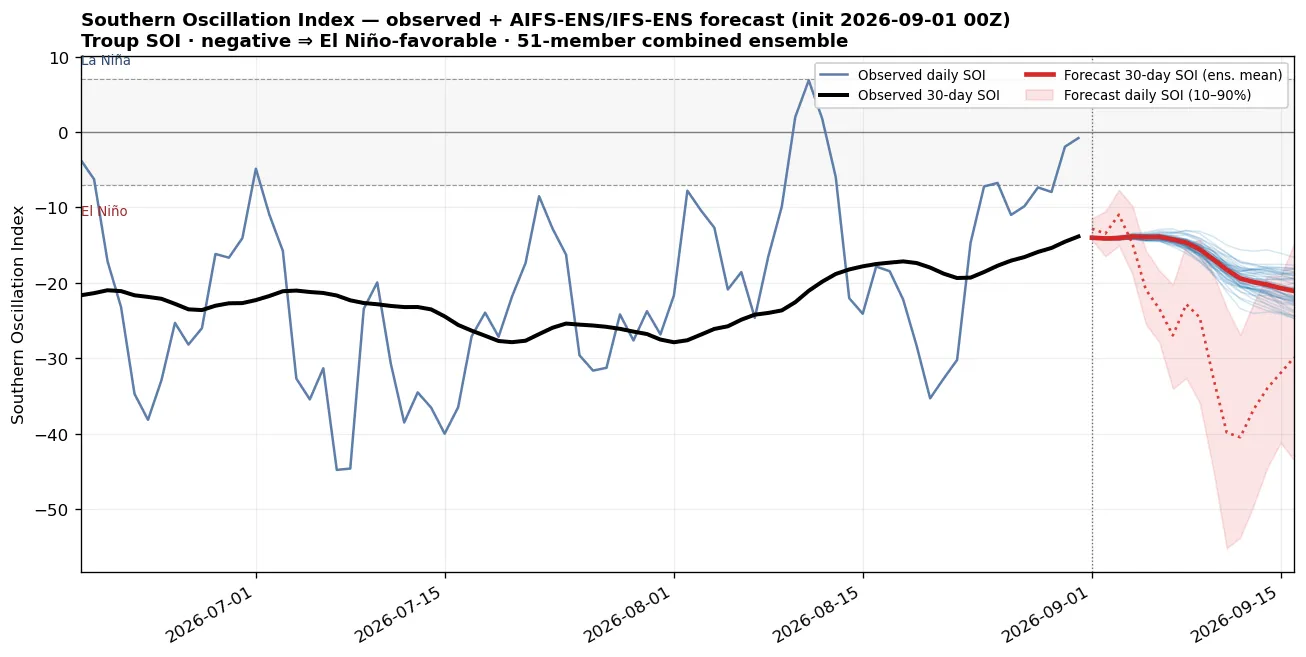
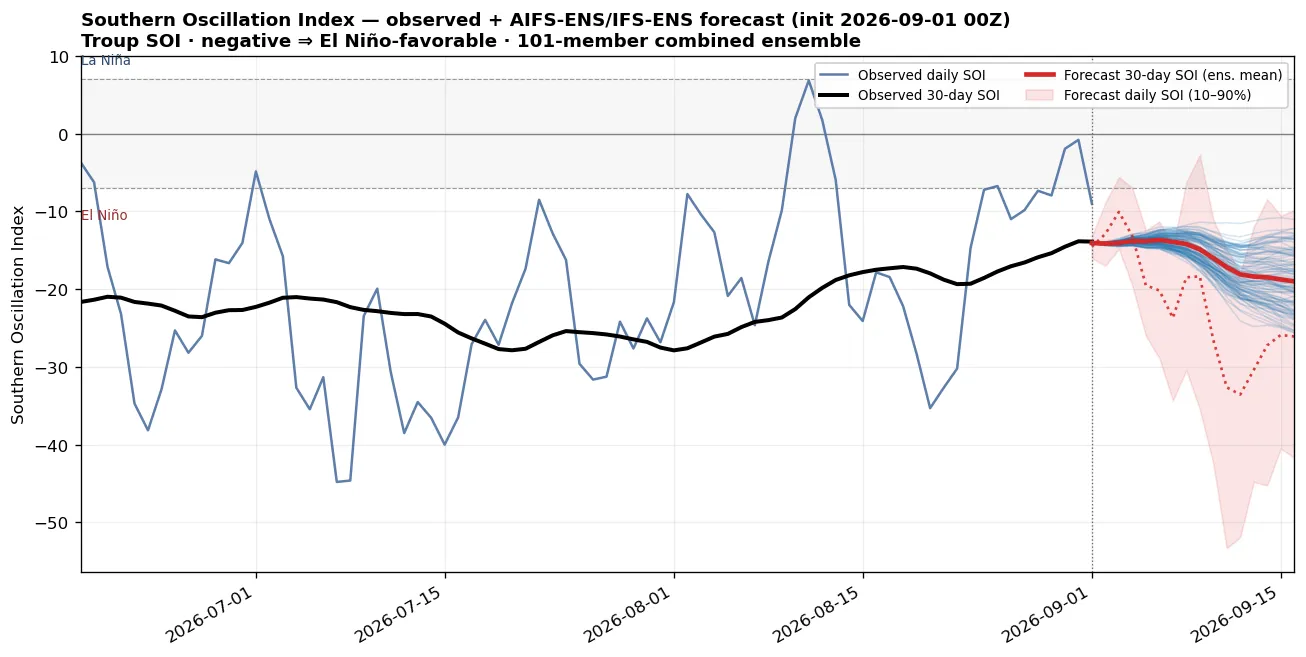
data update: 20260901_00z (a)

diff --git a/enso-atmosphere.html b/enso-atmosphere.html
@@ -667,7 +667,7 @@
         <h2>Atmospheric Angular Momentum</h2>
         <p>Relative AAM is the angular momentum carried by the winds, the atmosphere's total westerly momentum, &int;&nbsp;u&middot;cos&sup2;&phi; over the whole globe. It is dominated by the upper-tropospheric subtropical jets and the deep tropics (largest moment arm), shown here for the globe and each hemisphere from the AIFS-ENS winds on 14 pressure levels (10&ndash;1000&nbsp;hPa &mdash; the full column, validated against the 37-level ERA5 integral and GFZ's ESMGFZ wind-term series to ~1%). The top panel is this year's observed AAM (black) and the 15-day forecast (red) on the climatological annual cycle; the hemispheres are strongly out of phase (each peaks in its own winter). The bottom panel is the anomaly (departure from the 1991&ndash;2020 normal), which removes the seasonal cycle. El&nbsp;Ni&ntilde;o strengthens the subtropical jets and weakens the trades, so the atmosphere holds more westerly momentum; conservation then requires the solid Earth to slow, so AAM ties directly to the measured length of day. The <span style="color:#2e7d32"><b>green trace</b></span> is GFZ's independent ESMGFZ wind-term series (computed from ECMWF's operational analyses for the Earth-rotation community) &mdash; a continuous external check on this pipeline.</p>
       </div>
-      <div class="img-wrap"><img src="assets/sst/aam.webp?v=202609010700" alt="Global and hemispheric atmospheric angular momentum: observed + AIFS-ENS forecast, absolute and anomaly" loading="eager" fetchpriority="high"></div>
+      <div class="img-wrap"><img src="assets/sst/aam.webp?v=202609010847" alt="Global and hemispheric atmospheric angular momentum: observed + AIFS-ENS forecast, absolute and anomaly" loading="eager" fetchpriority="high"></div>
       <div class="chart-card-footer"><span class="chart-sources">Forecast: ECMWF AIFS-ENS (open data, CC BY 4.0) &middot; climatology &amp; this-year observed: ERA5 (Copernicus C3S / ECMWF) &middot; updated daily</span></div>
       </div>
 
@@ -675,7 +675,7 @@
       <div class="chart-card-header">
         <h2>AAM Forecast Trend (run-to-run)</h2>
       </div>
-      <div class="img-wrap"><img src="assets/sst/aam_trend.webp?v=202609010700" alt="Run-to-run trend of AIFS-ENS ensemble-mean AAM anomaly forecasts, global and hemispheric" loading="lazy"></div>
+      <div class="img-wrap"><img src="assets/sst/aam_trend.webp?v=202609010847" alt="Run-to-run trend of AIFS-ENS ensemble-mean AAM anomaly forecasts, global and hemispheric" loading="lazy"></div>
       <div class="chart-card-footer"><span class="chart-sources">ECMWF AIFS-ENS (open data, CC BY 4.0) &middot; anomaly vs ERA5 1991&ndash;2020 (Copernicus C3S) &middot; archived each cycle</span></div>
       </div>
 
@@ -684,7 +684,7 @@
         <h2>AAM Phase: Where the Momentum Is, and Where It&rsquo;s Going</h2>
         <p><b>Top</b>: relative AAM integrated in 1.5&deg; latitude bands &mdash; ~3 months observed (ERA5) plus the 15-day AIFS-ENS mean forecast &mdash; so poleward-propagating westerly anomalies and building subtropical momentum show as slanted warm streaks. <b>Bottom</b>: each hemisphere's trajectory through (AAM anomaly, tendency) phase space, the hemispheric analog of the Weickmann&ndash;Berry global wind oscillation orbit: grey trail = last 75 days, red = the forecast. The headline sentence is generated automatically from the forecast quadrant and the latitude band driving the change &mdash; e.g. <i>"NH: rising above-normal AAM &mdash; subtropical westerlies increasing."</i></p>
       </div>
-      <div class="img-wrap"><img src="assets/sst/aam_phase.webp?v=202609010700" alt="Hemispheric AAM phase diagnostics: latitude-time anomaly heatmap and NH/SH phase-space orbits with forecast" loading="lazy"></div>
+      <div class="img-wrap"><img src="assets/sst/aam_phase.webp?v=202609010847" alt="Hemispheric AAM phase diagnostics: latitude-time anomaly heatmap and NH/SH phase-space orbits with forecast" loading="lazy"></div>
       <div class="chart-card-footer"><span class="chart-sources">ERA5 (local store) &middot; AIFS-ENS ensemble mean (open data, CC BY 4.0) &middot; clim: ERA5 1991&ndash;2020 &middot; updated daily</span></div>
       </div>
 
@@ -700,8 +700,8 @@
       </div>
       <iframe data-deferred class="anim-embed torque" data-src="sst_anim.html?embed=1&amp;manifest=torque_manifest.json&amp;region=torque"
               title="AAM surface-torque anomaly animation (friction + mountain) over the AIFS-ENS forecast" loading="lazy"></iframe>
-      <div class="img-wrap"><img src="assets/sst/torque_timeseries.webp?v=202609010700" alt="AAM torque anomalies for globe, Northern and Southern Hemisphere" loading="lazy"></div>
-      <div class="img-wrap"><img src="assets/sst/torque_ranges.webp?v=202609010700" alt="Mountain-torque anomaly broken down by range (Himalaya, Rockies, Andes, Greenland, Antarctica, Alps)" loading="lazy"></div>
+      <div class="img-wrap"><img src="assets/sst/torque_timeseries.webp?v=202609010847" alt="AAM torque anomalies for globe, Northern and Southern Hemisphere" loading="lazy"></div>
+      <div class="img-wrap"><img src="assets/sst/torque_ranges.webp?v=202609010847" alt="Mountain-torque anomaly broken down by range (Himalaya, Rockies, Andes, Greenland, Antarctica, Alps)" loading="lazy"></div>
       <div class="chart-card-footer"><span class="chart-sources">ECMWF AIFS-ENS surface pressure &amp; 10 m wind (open data, CC BY 4.0) &middot; drag coefficient and torque climatology from ERA5 1991&ndash;2020 (Copernicus C3S) &middot; instantaneous once-daily fields &middot; updated daily</span></div>
 
     <!-- E-P FLUX & WAVE DRIVING -->
@@ -762,7 +762,7 @@
       </div>
       <iframe data-deferred class="anim-embed jets" data-src="sst_anim.html?embed=1&amp;manifest=jets_manifest.json&amp;region=jets"
               title="Subtropical jet forecast animation: zonal-mean wind anomaly cross-section, day 0-15 from AIFS-ENS" loading="lazy"></iframe>
-      <div class="img-wrap"><img src="assets/sst/jets.webp?v=202609010700" alt="Subtropical jet monitor: zonal-mean wind cross-section anomaly and jet-core strength/latitude forecast vs ERA5 climatology" loading="lazy"></div>
+      <div class="img-wrap"><img src="assets/sst/jets.webp?v=202609010847" alt="Subtropical jet monitor: zonal-mean wind cross-section anomaly and jet-core strength/latitude forecast vs ERA5 climatology" loading="lazy"></div>
       <div class="chart-card-footer"><span class="chart-sources">ECMWF AIFS-ENS 13-level zonal wind, 51 members (open data, CC BY 4.0) &middot; clim: ERA5 1991&ndash;2020 harmonic day-of-year normal &plusmn;1&sigma; (WeatherBench2 / Copernicus C3S) &middot; updated daily</span></div>
       </div>
       

diff --git a/sst.html b/sst.html
@@ -646,7 +646,7 @@
       <h2>Daily SOI: the Current Event vs the Record</h2>
       <p><b>150 years of the Southern Oscillation, with today marked against the records.</b> <b>Top</b>: the Bureau of Meteorology's monthly Troup SOI computed one way from <b>1876 to the present</b> &mdash; monthly (light) and 3-month mean (bold), with dotted record lines: the all-time monthly extremes were set in Apr&nbsp;1905 (&minus;42.6) and Aug&nbsp;1917 (+34.8). <b>Middle</b>: the consistent <b>daily</b> record &mdash; LongPaddock's daily Troup index (10&middot;(&Delta;P&nbsp;&minus;&nbsp;m)/&sigma;, &Delta;P = Tahiti&nbsp;&minus;&nbsp;Darwin MSLP, fixed 1887&ndash;1989 base), June&nbsp;1991&ndash;present, as 30-day and 90-day running means with their own record max/min lines (1997&ndash;98 holds the 30-day minimum; 2010&ndash;11 the positive records). <b>Bottom</b>: the last 24 months with raw daily values as bars. Sustained values below &minus;8 are the classic Troup El&nbsp;Ni&ntilde;o threshold; the record lines show at a glance how the current excursion ranks in a century and a half of data.</p>
     </div>
-    <div class="img-wrap"><img src="assets/sst/soi_history.webp?v=202609010700" alt="Daily SOI history: 30-day and 90-day running means with all-time record max/min lines" loading="lazy"></div>
+    <div class="img-wrap"><img src="assets/sst/soi_history.webp?v=202609010847" alt="Daily SOI history: 30-day and 90-day running means with all-time record max/min lines" loading="lazy"></div>
     <div class="chart-card-footer">
       <span class="chart-sources">Queensland Govt LongPaddock / BoM daily Troup SOI &middot; fixed 1887&ndash;1989 base &middot; updated each cycle</span>
     </div>
@@ -658,7 +658,7 @@
       <p>NOAA PSL's Multivariate ENSO Index v2 is the leading combined-EOF of five tropical-Pacific fields (sea-level pressure, SST, surface zonal and meridional wind, and OLR), but it is published only as an overlapping bimonthly value with a roughly five-week lag. This is a daily nowcast of it: a regression of the published MEI.v2 onto freely-available daily ENSO components (the Ni&ntilde;o-3.4 SST anomaly, the Southern Oscillation Index, and the equatorial 850-hPa zonal wind), driven forward each day. The grey steps are the official bimonthly MEI.v2; the red line is the daily estimate, with a &plusmn;0.30 leave-one-year-out cross-validation band (the fit reproduces MEI.v2 at R&nbsp;=&nbsp;0.94). The model is SST-weighted, so during a fast SST-led transition it can lead MEI's slower atmospheric components.</p>
     </div>
     <div class="img-wrap">
-      <img src="assets/sst/mei/mei_nowcast.webp?v=202609010700"
+      <img src="assets/sst/mei/mei_nowcast.webp?v=202609010847"
            alt="Daily nowcast of the Multivariate ENSO Index version 2" loading="lazy">
     </div>
     <div class="img-wrap">
@@ -673,7 +673,7 @@
     </div>
     <div class="img-wrap">
       <p class="img-label">Out-of-sample skill: the 2015&ndash;16 El Ni&ntilde;o</p>
-      <img src="assets/sst/mei/mei_validation.webp?v=202609010700"
+      <img src="assets/sst/mei/mei_validation.webp?v=202609010847"
            alt="Validation of the MEI.v2 nowcast over the 2015-16 El Niño" loading="lazy">
     </div>
     <div class="chart-card-footer">
